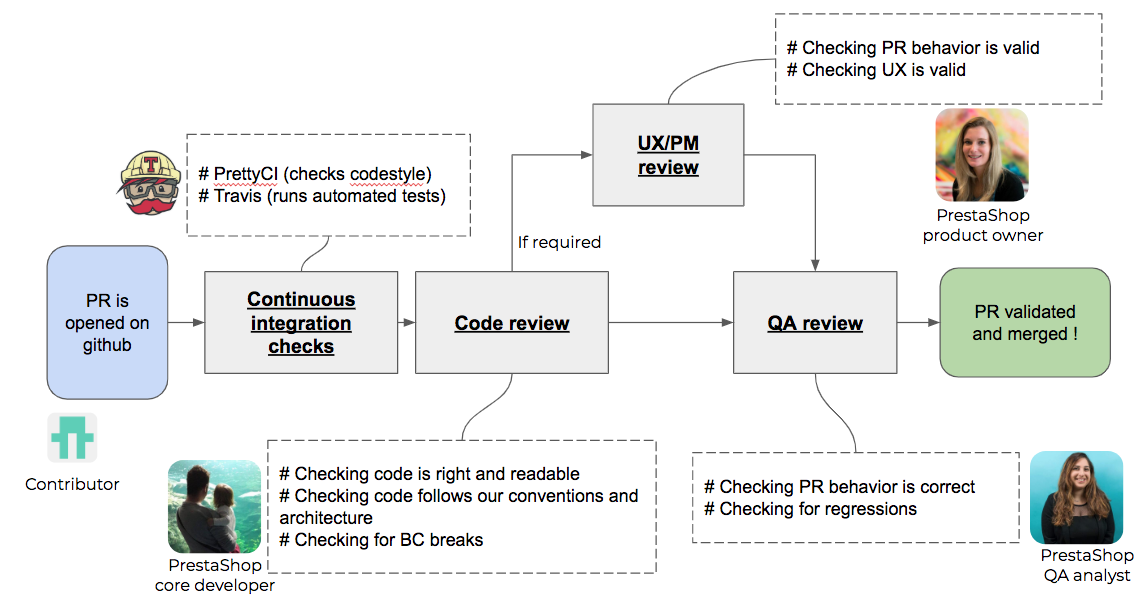
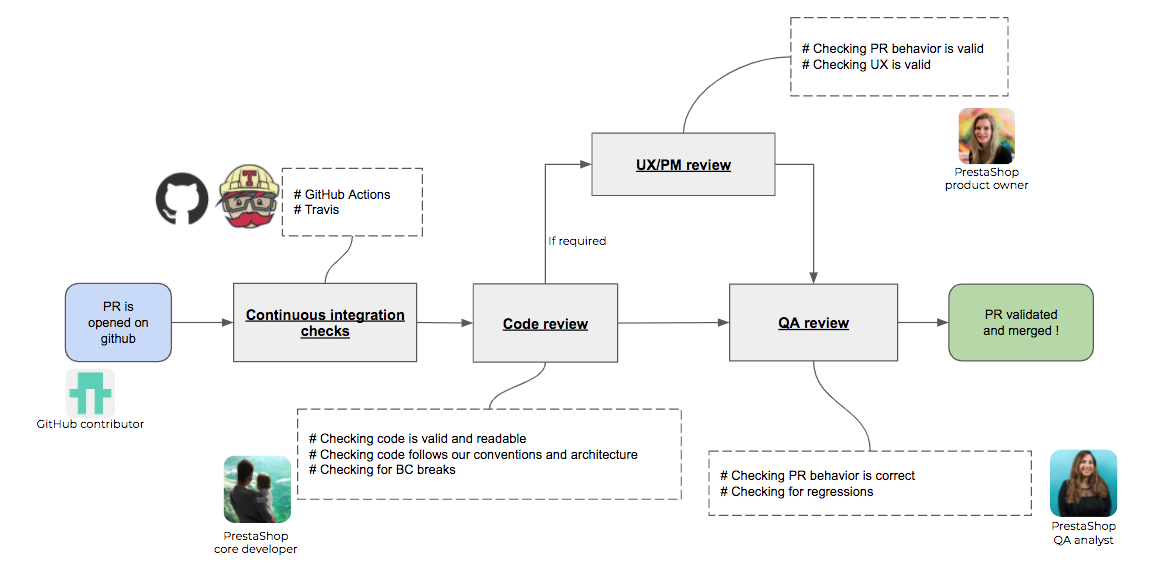
Update image for PR process and add tips to see image in full size

diff --git a/src/content/1.7/contribute/contribution-guidelines/_index.md b/src/content/1.7/contribute/contribution-guidelines/_index.md
@@ -55,6 +55,7 @@ Do not hesitate to use [interactive staging](https://git-scm.com/book/en/v2/Git-
 {{% /notice %}}
 
 {{% callout %}}
+
 ### Writing a good commit message
 
 The commit name should give an idea of the nature and context of the change that has been done. The more details, the better! The commit name should be as unique and recognizable as your commit itself. There are multitude of articles on the web regarding commit messages, here are two that you can find useful: [How to Write a Git Commit Message](https://chris.beams.io/posts/git-commit/) and [What makes a good commit message?](https://hackernoon.com/what-makes-a-good-commit-message-995d23687ad).
@@ -125,6 +126,8 @@ Remember: **smaller changes are easier to review, easier to test and easier to m
 ### The Pull Request form
 
 When you create a new Pull Request, you will be presented with a form that looks like this:
+
+(click on it to see full size)
 
 ![Screenshot of the New Pull Request Form](../img/new-pull-request.png)
 

diff --git a/src/content/1.7/contribute/contribution-process/how-pull-requests-are-processed.md b/src/content/1.7/contribute/contribution-process/how-pull-requests-are-processed.md
@@ -85,6 +85,8 @@ After the Pull Request has finally passed the QA validation, it is merged in the
 
 ### Graphical summary
 
+(click on it to see full size)
+
 ![Pull Request process summary](../../img/pull-request-process.png)
 
 
